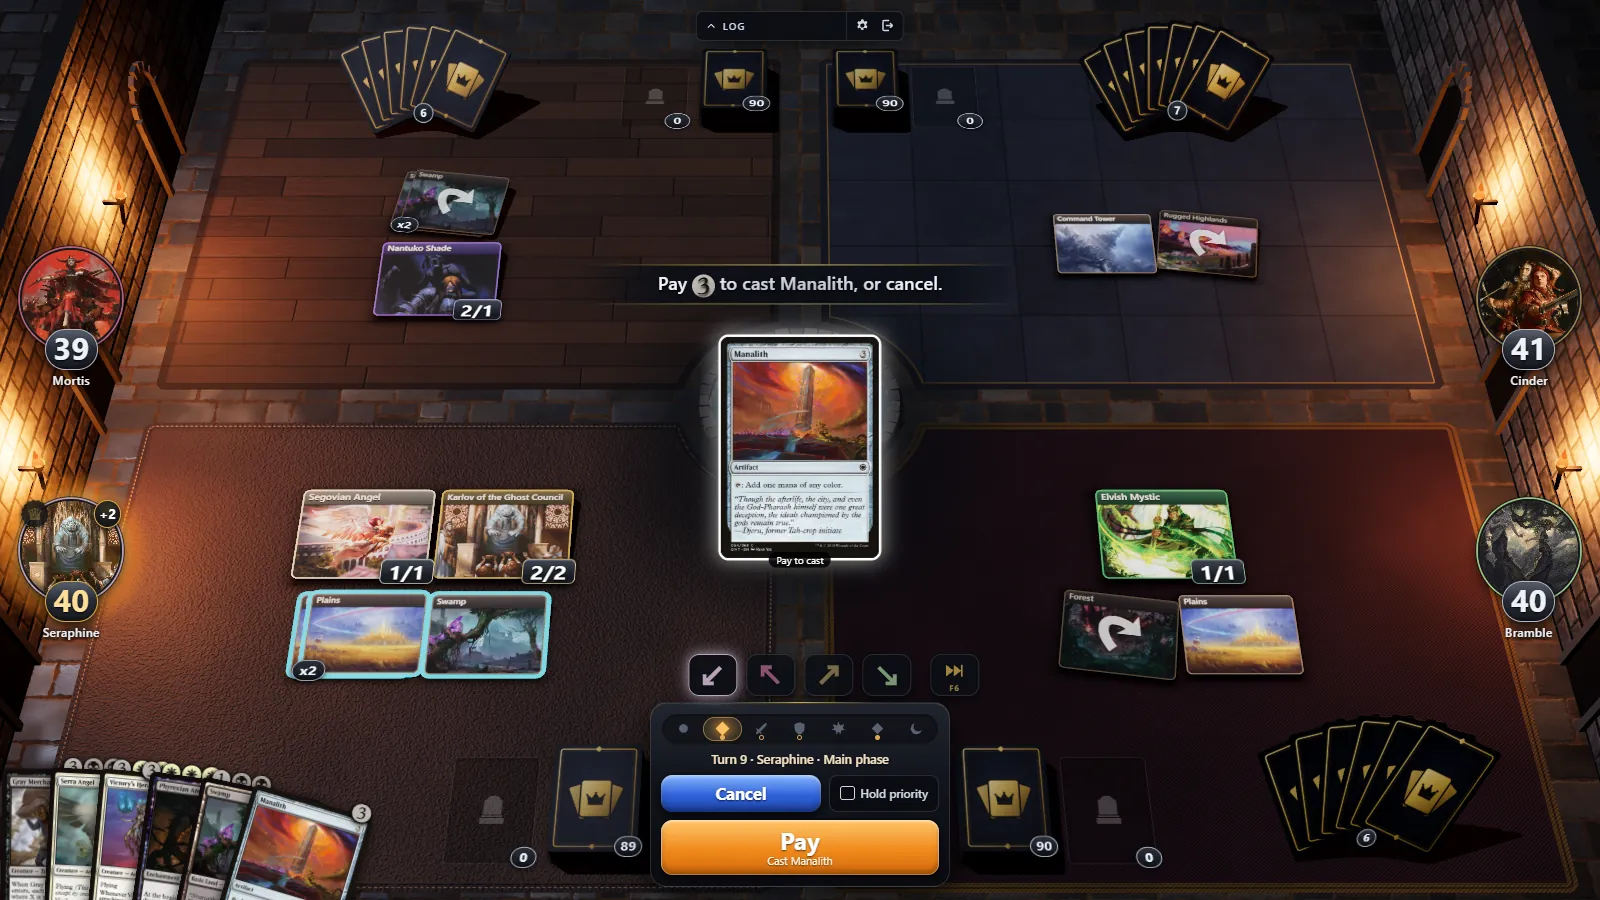
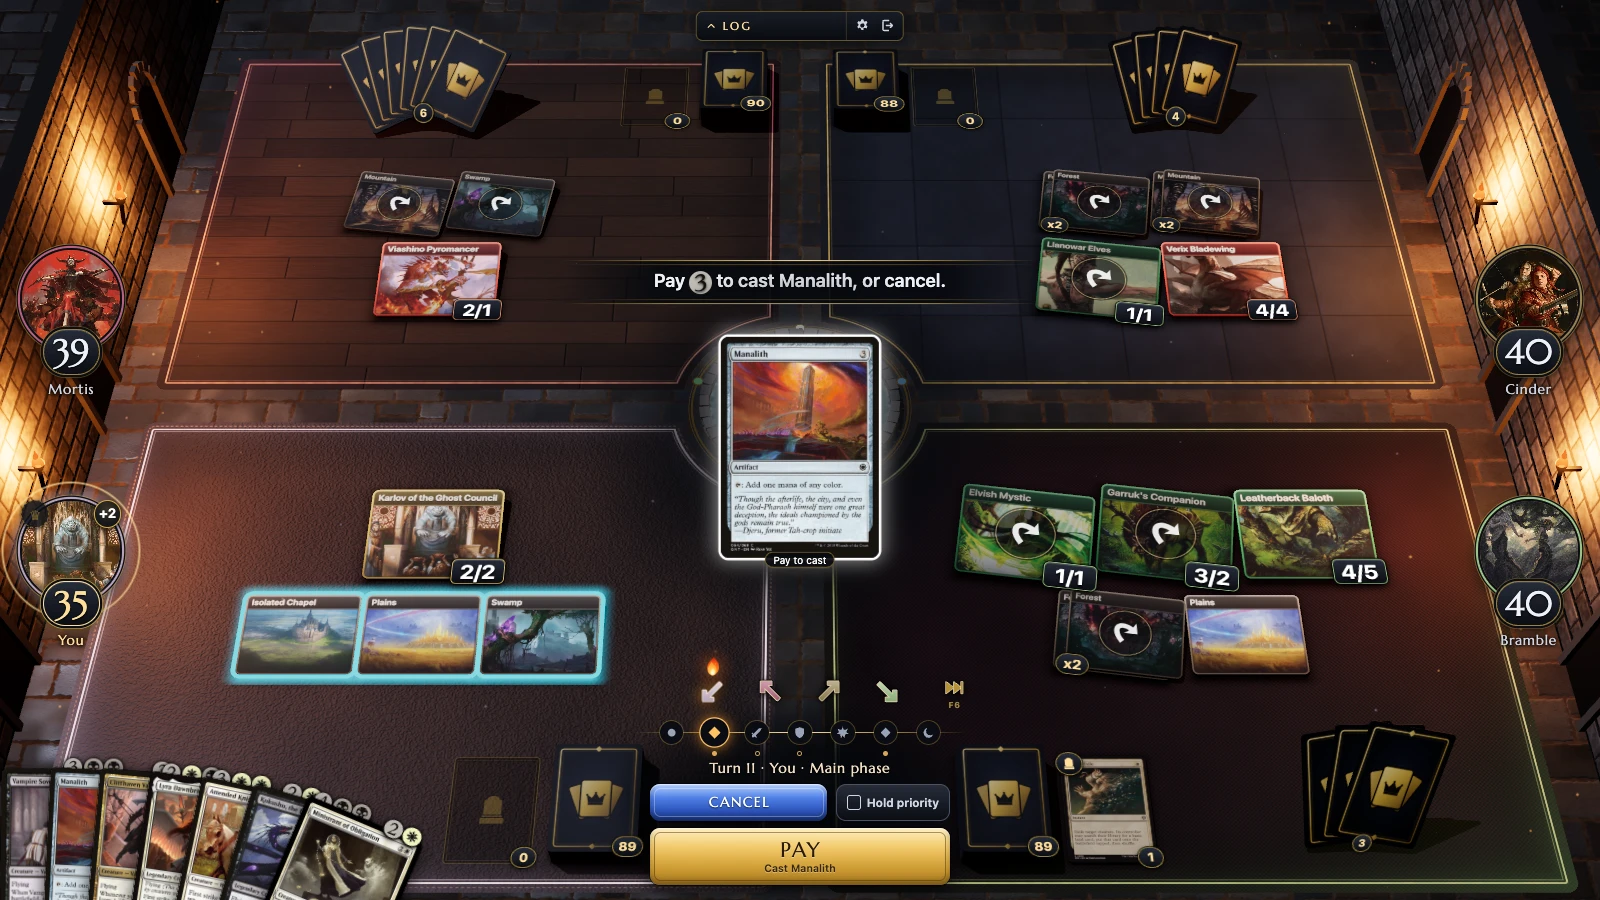
README: update screenshots for v0.7.0 UI redesign
Retakes all seven README screenshots at 1600x900 WebP to reflect the v0.7.0 home screen and in-game UI redesign (3D commander showcase over the mana ring, bottom deck hand, seat pod chart, gold-ruled frames, deck-colored mats, medallion portraits, and turn flame), and updates README image alt text to match.

diff --git a/README.md b/README.md
@@ -5,7 +5,7 @@ table. Two to four players: you play one deck, and bots or friends play the othe
 
 This is an unofficial fan prototype. Expect rough edges.
 
-![A four-player game on turn 21: each seat's battlefield on its own mat, life totals on the portraits, two exiled cards swirling in the well in the middle, and the Next button with the seat arrows and the pass-the-turn button above it](docs/images/table.webp)
+![A four-player game on turn 22: each seat's battlefield on its own mat, life totals on the portraits, two exiled cards swirling in the well in the middle, and the Next button with the seat arrows and the pass-the-turn button above it](docs/images/table.webp)
 
 ## Highlights
 
@@ -28,11 +28,11 @@ This is an unofficial fan prototype. Expect rough edges.
 
 | | |
 | --- | --- |
-| ![The menu: eight built-in decks with their art, and the table settings on the right](docs/images/menu.webp) | ![Pasting a deck list: 100 cards read, the commander picked, ready to save](docs/images/paste-deck.webp) |
+| ![The menu: Karlov of the Ghost Council standing over the mana ring, the eight built-in decks along the bottom, and the table seat chart on the right](docs/images/menu.webp) | ![Pasting a deck list: 100 cards read, the commander picked, ready to save](docs/images/paste-deck.webp) |
 | **The menu.** Pick a deck and who sits in the other seats. | **Paste a deck list** from Arena, Moxfield, Archidekt, MTGO or TappedOut. |
 | ![The opening hand of seven cards, with Mulligan and Keep buttons](docs/images/mulligan.webp) | ![Casting Manalith: the card in the middle, "Pay 3 to cast Manalith", the lands that will be tapped glowing, and Cancel and Pay buttons](docs/images/cast.webp) |
 | **Keep or mulligan** your opening hand. Your first mulligan is free. | **Cast a spell** by dragging it onto the table. The lands auto-pay will tap glow: press **Pay**. |
-| ![Two abilities on the stack; hovering the lower one, Acidic Slime's trigger, draws a dotted arrow to the Sol Ring it targets](docs/images/stack.webp) | ![The Hotkeys window listing every keyboard and mouse control](docs/images/hotkeys.webp) |
+| ![Two abilities on the stack; hovering Judith, the Scourge Diva's trigger draws a dotted arrow to the Zulaport Cutthroat it targets](docs/images/stack.webp) | ![The Hotkeys window listing every keyboard and mouse control](docs/images/hotkeys.webp) |
 | **The stack** sits in the middle. Hover a spell or ability to see what it targets. | **Hotkeys**, on the gear menu, lists every control. |
 
 ## Getting the game
